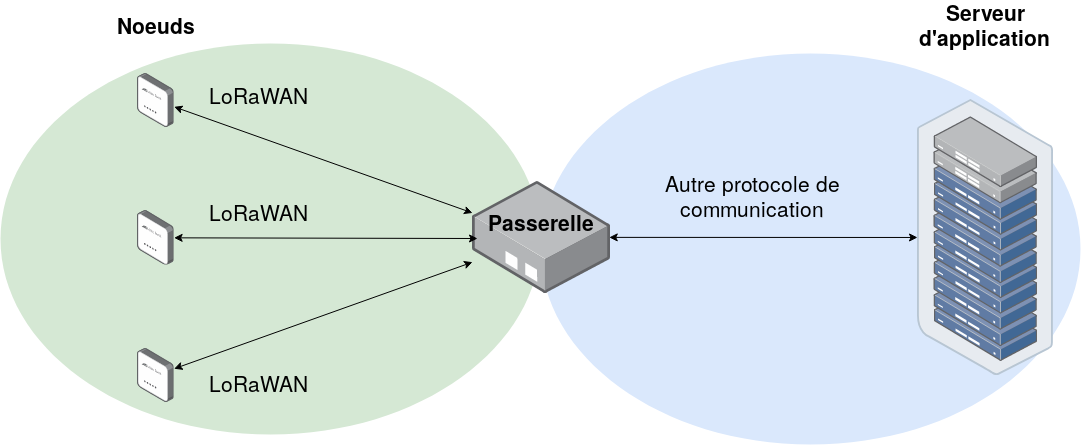
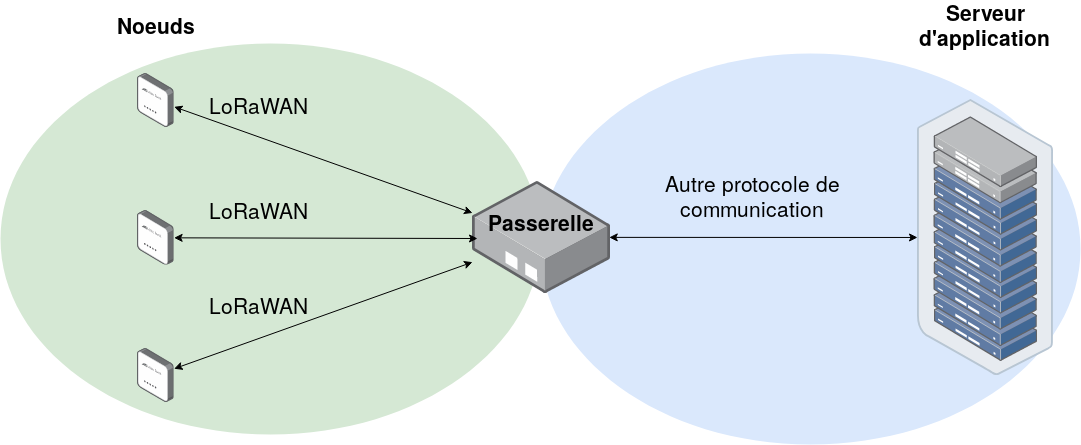
Ajout images simplifiées

diff --git a/livrables/rapport.md b/livrables/rapport.md
@@ -34,6 +34,13 @@ Rappel des points d’action :
 • Analyse et discussion de la sécurité du système (éventuellement Pentest)
 
 
+Schéma simplifié 
+================
+
+![fonctionnement_simple](../docs/schemas/Schema_LoRaWAN.png)
+
+
+
 Répartition des tâches 
 ======================
 
